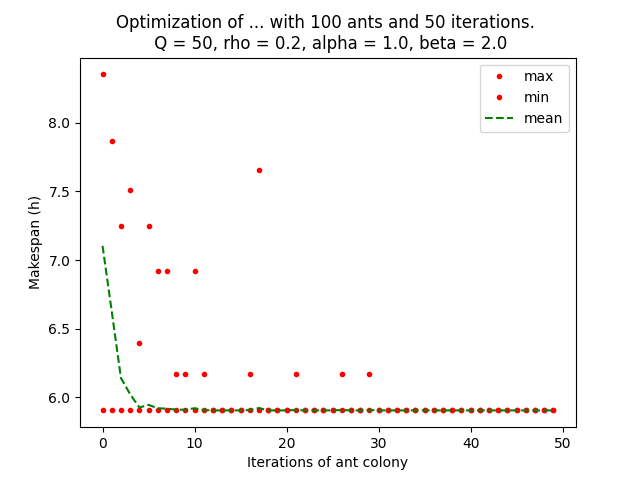
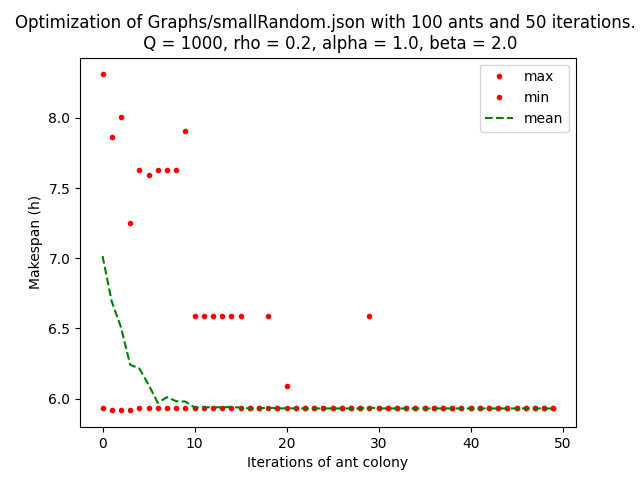
minor changes to the expression of elite ants

diff --git a/ACO.py b/ACO.py
@@ -65,7 +65,7 @@ def probabilites_construction(alpha: float, beta: float, eta: np.array, pheromon
     return available_probabilites
 
 
-def ACO_basic_ants(graph: nx.DiGraph, num_machines: int = 2, num_ants: int = 10, alpha: float = 1.0, beta: float = 2.0, evaporation_rate: float = 0.2, q: float = 1.0, q_best: float = 25.0, visibility_function=procces_visibilty_func, num_iterations: int = 100):
+def ACO_basic_ants(graph: nx.DiGraph, num_machines: int = 2, num_ants: int = 10, alpha: float = 1.0, beta: float = 2.0, evaporation_rate: float = 0.2, q: float = 1.0, n_best: float = 0.10, visibility_function=procces_visibilty_func, num_iterations: int = 100):
     '''
     graph : directed graph
     num_machines : number of machines given by the problem
@@ -113,6 +113,8 @@ def ACO_basic_ants(graph: nx.DiGraph, num_machines: int = 2, num_ants: int = 10,
         best_local_schedule = None
         best_local_makespan = np.inf
 
+        basic_ants = True
+
         for ant in range(local_num_ant):
 
             # initiate variables
@@ -156,9 +158,6 @@ def ACO_basic_ants(graph: nx.DiGraph, num_machines: int = 2, num_ants: int = 10,
             local_current_makespan = makespan(machines)
 
             # Update best local ant
-            if local_current_makespan < best_local_makespan:
-                best_local_makespan = local_current_makespan
-                best_local_schedule = machines
             if local_current_makespan < best_global_makespan:
                 best_global_makespan = local_current_makespan
                 best_global_schedule = machines
@@ -170,28 +169,46 @@ def ACO_basic_ants(graph: nx.DiGraph, num_machines: int = 2, num_ants: int = 10,
         # adding a best ant method
         best_ant_index = np.argmin(
             list(map(lambda x: makespan(x[1]), local_ant_solutions)))
-        local_best_ant_solution = local_ant_solutions[best_ant_index]
-        best_ant_makespan = makespan(local_best_ant_solution[1])
+        best_ant_makespan = makespan(local_ant_solutions[best_ant_index][1])
 
-        # Updating the Pheromone Matrix after each ant
-        # Evaporation affect all process the same...
+        if basic_ants and (it < it//2) and n_best != 0:
+            basic_ants = False
+
+            # Updating the Pheromone Matrix after each ant
+            # Evaporation affect all process the same...
         pheromone_matrix *= (1-evaporation_rate)
 
         # local addition of ants' choice
         local_pheromone_addition_matrix = np.zeros_like(pheromone_matrix)
-        for ant_solution in local_ant_solutions:
-            for i in range(len(ant_solution[0]) - 1):
-                local_pheromone_addition_matrix[jobs_to_index_mapping[ant_solution[0][i]],
-                                                jobs_to_index_mapping[ant_solution[0][i+1]]] += q*np.exp(50*(best_ant_makespan-makespan(ant_solution[1]))/best_ant_makespan)
-            if ant_solution == local_best_ant_solution:
-                local_pheromone_addition_matrix[jobs_to_index_mapping[ant_solution[0][i]],
-                                                jobs_to_index_mapping[ant_solution[0][i+1]]] += q_best*np.exp(50*(best_ant_makespan-makespan(ant_solution[1]))/best_ant_makespan)
+        if basic_ants:
 
+            for ant_solution in local_ant_solutions:
+                for i in range(len(ant_solution[0]) - 1):
+                    local_pheromone_addition_matrix[jobs_to_index_mapping[ant_solution[0][i]],
+                                                    jobs_to_index_mapping[ant_solution[0][i+1]]] += q*np.exp(100*(best_ant_makespan-makespan(ant_solution[1]))/best_ant_makespan)
+            global_addition_matrix = np.zeros_like(
+                local_pheromone_addition_matrix)
+            comm.Allreduce(
+                local_pheromone_addition_matrix, global_addition_matrix, op=MPI.SUM)
+            pheromone_matrix += global_addition_matrix
+        else:  # swiching to elite ant strategy
+            best_ant_indexes = np.argsort(
+                list(map(lambda x: makespan(x[1]), local_ant_solutions)))
+
+            best_ants = []
+            for index in best_ant_indexes:
+                best_ants.append(local_ant_solutions[index])
+
+            for ant_solution in best_ants:
+                for i in range(len(ant_solution[0]) - 1):
+                    local_pheromone_addition_matrix[jobs_to_index_mapping[ant_solution[0][i]],
+                                                    jobs_to_index_mapping[ant_solution[0][i+1]]] += q*np.exp(100*(best_ant_makespan-makespan(ant_solution[1]))/best_ant_makespan)
+            global_addition_matrix = np.zeros_like(
+                local_pheromone_addition_matrix)
+            comm.Allreduce(
+                local_pheromone_addition_matrix, global_addition_matrix, op=MPI.SUM)
+            pheromone_matrix += global_addition_matrix
         # addition of all resulting matrix
-        global_addition_matrix = np.zeros_like(local_pheromone_addition_matrix)
-        comm.Allreduce(
-            local_pheromone_addition_matrix, global_addition_matrix, op=MPI.SUM)
-        pheromone_matrix += global_addition_matrix
 
         # print(f'Iteration {it}:', pheromone_matrix)
 

diff --git a/plot_save.py b/plot_save.py
@@ -3,6 +3,11 @@ import numpy as np
 from ACO import makespan
 
 
+def select_graph(parameters):
+
+    return parameters['DAG_path'][parameters['DAG_path'].index('/')+1::]
+
+
 def plot_save(result_dict: dict, parameters: dict):
     iteration = result_dict.keys()
     max_results = np.empty((parameters['iteration number'],))
@@ -45,7 +50,7 @@ def plot_save(result_dict: dict, parameters: dict):
     #         color="blue", label="mean - std")
     plt.xlabel("Iterations of ant colony")
     plt.ylabel("Makespan (h)")
-    plt.title("Optimization of ... with {0} ants and {1} iterations. \n Q = {2}, rho = {3}, alpha = {4}, beta = {5}".format(
-        num_ant, parameters['iteration number'], parameters["Q"], parameters["evaporation"], parameters["alpha"], parameters["beta"]))
+    plt.title("Optimization of {0} with {1} ants and {2} iterations. \n Q = {3}, rho = {4}, alpha = {5}, beta = {6}".format(select_graph(parameters),
+                                                                                                                            num_ant, parameters['iteration number'], parameters["Q"], parameters["evaporation"], parameters["alpha"], parameters["beta"]))
     plt.legend()
     plt.savefig("./results.png")

diff --git a/intermediate.py b/intermediate.py
@@ -45,7 +45,7 @@ def resolution(parameters):
             graph=DAG, num_machines=parameters["machines number"], num_ants=parameters[
                 "ants number"], alpha=parameters["alpha"],
             beta=parameters["beta"], evaporation_rate=parameters["evaporation"], q=parameters["Q"],
-            q_best=parameters["Qbest"], visibility_function=visibility_func,
+            n_best=parameters["nbest"], visibility_function=visibility_func,
             num_iterations=parameters["iteration number"])
 # magic here ^^^^^^^^^^^^^^^^^^^^^^^^^^^^^^
         basic_ant_end = process_time()

diff --git a/main.py b/main.py
@@ -26,9 +26,9 @@ parameters = {
     "evaporation":
     0.2,
     "Q":
-    50,
-    "Qbest":
-    100,
+    1000,
+    "nbest":
+    0.10,
     "visibility function":
     # "process",
     "child and process",
